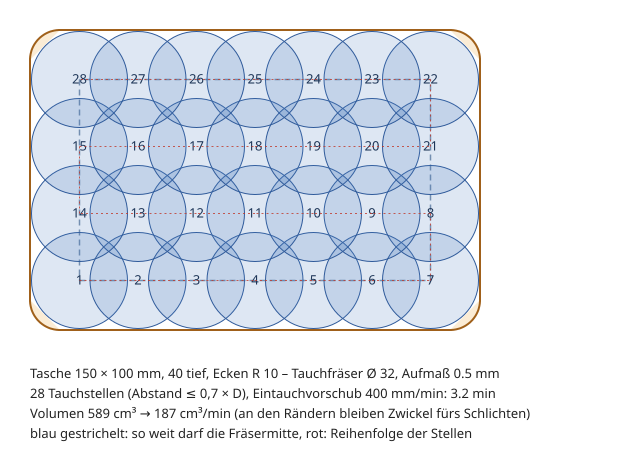
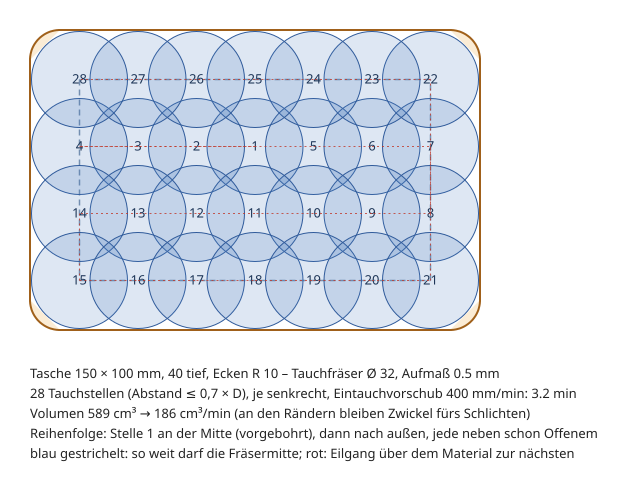
Tauchfräsen-Entwurf: Reihenfolge von der Mitte nach außen, senkrecht – kein Zickzack; Hilfe zu den Katalogen

diff --git a/help/en/werkzeuge.html b/help/en/werkzeuge.html
@@ -65,7 +65,13 @@ carbide end mills Ø 6 to 20 (Jongen UNI-Mill 494W, from the catalogue), deburri
 16 (Garant 208165, from the data sheet), a face mill Ø 50 (Sandvik CoroMill 345), one example
 of every other type and the inserts for turning (C, D, V, W, T, S, R). The window shows them
 as a tree: tool type → series → size, each with a tick – so you can take single sizes of a
-series only. At first nothing is ticked, so that nothing is added by accident; “Tick all” and
+series only. On top come the <b>manufacturers' catalogues</b> – over 12,800 sizes from Fraisa,
+Hufschmied, Gühring, MAPAL, Iscar, Kennametal, Tungaloy and Hoffmann (GARANT, HOLEX); the search
+above the tree finds manufacturer, brand and series, the sizes of a series appear when it is
+expanded. What a tool can do according to its manufacturer shows later in grey below its fields:
+<b>Can, per manufacturer:</b> centre cutting (plunges vertically), drill-milling, plunge
+milling, up to 5 × D deep, indexable inserts … – the assistant suggests tools from this. At
+first nothing is ticked, so that nothing is added by accident; “Tick all” and
 “Untick all” help. The tooltip of a series says where dimensions,
 numbers and values come from. <b>Add</b> creates them with the next free numbers – what is
 already there stays as you changed it. Every tool brings cutting data per <b>material

diff --git a/help/de/werkzeuge.html b/help/de/werkzeuge.html
@@ -67,7 +67,13 @@ VHM-Fräser Ø 6 bis 20 (Jongen UNI-Mill 494W, nach Katalog), Entgrater Ø 6 bis
 208165, nach Datenblatt), ein Messerkopf Ø 50 (Sandvik CoroMill 345), je weitere Art ein
 Beispiel und die Wendeplatten zum Drehen (C, D, V, W, T, S, R). Das Fenster zeigt sie als
 Baum: Werkzeugart → Reihe → Größe, jede mit Haken – so nimmst du auch nur einzelne Größen
-einer Reihe. Am Anfang ist nichts angehakt, damit nicht aus Versehen alles hinzukommt;
+einer Reihe. Dazu kommen die <b>Kataloge der Hersteller</b> – über 12 800 Größen von Fraisa,
+Hufschmied, Gühring, MAPAL, Iscar, Kennametal, Tungaloy und Hoffmann (GARANT, HOLEX); die Suche
+über dem Baum findet Hersteller, Marke und Reihe, die Größen einer Reihe erscheinen beim
+Aufklappen. Was ein Werkzeug laut Hersteller kann, steht später grau unter seinen Feldern:
+<b>Kann laut Hersteller:</b> mittenschneidend (taucht senkrecht ein), Bohrfräsen, Tauchfräsen,
+bis 5 × D tief, Wendeplatten … – daran schlägt der Assistent Werkzeuge vor. Am Anfang ist nichts
+angehakt, damit nicht aus Versehen alles hinzukommt;
 „Alle anhaken“ und „Alle abhaken“ helfen dabei. Der Tooltip einer Reihe sagt,
 woher Maße, Nummern und Werte kommen. <b>Hinzufügen</b> legt sie mit den nächsten freien
 Nummern an – was schon da ist, bleibt, wie du es geändert hast. Jedes Werkzeug bringt

diff --git a/camaddon/tauchfraesen.py b/camaddon/tauchfraesen.py
@@ -10,11 +10,14 @@ Der Fräser (ein Tauchfräser oder ein mittenschneidender Schaftfräser mit Wend
 senkrecht ins Volle, Stelle an Stelle:
 
 - **Wo:** Die Mitte des Fräsers bleibt um Radius + Aufmaß innerhalb des Bodens (makeOffset2D). Darin
-  liegen die Stellen in Zeilen (`schritt`, höchstens 0,7 × D – dann bleiben zwischen vier Stellen
-  nur kleine Zwickel), Zeile um Zeile im Zickzack, und dazu Stellen längs der versetzten Kontur im
-  selben Abstand, damit die Wände gleichmäßig Aufmaß behalten.
-- **Wie:** im Eilgang über die Stelle (knapp über der Oberkante), mit dem Eintauchvorschub bis auf
-  den Boden + Aufmaß, im Eilgang zurück nach oben, zur nächsten.
+  liegen die Stellen in einem Raster (`schritt`, höchstens 0,7 × D – dann bleiben zwischen vier
+  Stellen nur kleine Zwickel), dazu Stellen längs der versetzten Kontur im selben Abstand, damit
+  die Wände gleichmäßig Aufmaß behalten.
+- **Reihenfolge:** von der Mitte (dort wird vorgebohrt) nach außen, jede neue Stelle neben dem
+  schon Offenen (von_innen_nach_aussen).
+- **Wie:** im Eilgang über die Stelle (knapp über der Oberkante), senkrecht mit dem
+  Eintauchvorschub bis auf den Boden + Aufmaß, im Eilgang zurück nach oben, zur nächsten – kein
+  Zickzack, kein Rampen.
 
 Läuft ohne Oberfläche.
 """
@@ -45,13 +48,11 @@ def stellen(boden, radius, aufmass=0.0, schritt=None):
     zeilen = max(1, math.ceil(box.YLength / schritt))
     for zeile in range(zeilen + 1):
         y = box.YMin + min(zeile * box.YLength / zeilen, box.YLength)
-        reihe = []
         spalten = max(1, math.ceil(box.XLength / schritt))
         for spalte in range(spalten + 1):
             x = box.XMin + spalte * box.XLength / spalten
             if innen.isInside(FreeCAD.Vector(x, y, z), 1e-6, True):
-                reihe.append((x, y))
-        punkte += reihe if zeile % 2 == 0 else list(reversed(reihe))
+                punkte.append((x, y))
     # Längs der Kontur der versetzten Fläche, damit die Wände gleichmäßig Aufmaß behalten.
     for kante in innen.Edges:
         anzahl = max(1, math.ceil(kante.Length / schritt))
@@ -61,7 +62,35 @@ def stellen(boden, radius, aufmass=0.0, schritt=None):
             )
             if all(math.hypot(p.x - a, p.y - b) > 0.5 * schritt for a, b in punkte):
                 punkte.append((p.x, p.y))
-    return punkte
+    mitte = innen.CenterOfMass if innen.isInside(innen.CenterOfMass, 1e-6, True) else None
+    return von_innen_nach_aussen(punkte, (mitte.x, mitte.y) if mitte is not None else None)
+
+
+def von_innen_nach_aussen(punkte, mitte=None):
+    """Die Reihenfolge (Manuel, 2026-10-31: „bohrt mittig ein loch und fräst dann“; zum ersten
+    Entwurf: „wieso zuickzack bahn ?“): zuerst die Stelle an der Mitte (dort wird vorgebohrt),
+    dann immer die, die dem schon Offenen am nächsten liegt – so greift jede neue Stelle neben
+    Offenem an und schneidet nur zum Teil ins Volle; bei Gleichstand die nächste zur letzten."""
+    if not punkte:
+        return []
+    if mitte is None:
+        mitte = (sum(p[0] for p in punkte) / len(punkte), sum(p[1] for p in punkte) / len(punkte))
+    offen = list(punkte)
+    erste = min(offen, key=lambda p: math.hypot(p[0] - mitte[0], p[1] - mitte[1]))
+    folge = [erste]
+    offen.remove(erste)
+    while offen:
+        letzte = folge[-1]
+        naechste = min(
+            offen,
+            key=lambda p: (
+                round(min(math.hypot(p[0] - a, p[1] - b) for a, b in folge), 3),
+                math.hypot(p[0] - letzte[0], p[1] - letzte[1]),
+            ),
+        )
+        folge.append(naechste)
+        offen.remove(naechste)
+    return folge
 
 
 def bahn(punkte, z_oben, z_unten):

diff --git a/tests/test_tauchfraesen.py b/tests/test_tauchfraesen.py
@@ -5,6 +5,8 @@
 #    höchstens r von einer Stelle entfernt.
 # 3. Die Bahn: je Stelle Eilgang darüber, Eintauchen bis zum Boden, Eilgang hoch; die Zeit > 0.
 # 4. Zu eng (Tasche schmaler als der Fräser): keine Stelle.
+# 5. Reihenfolge von innen nach außen: die erste Stelle an der Mitte, jede weitere höchstens einen
+#    Rasterschritt (+ Spiel) vom schon Offenen.
 import math
 import os
 import sys
@@ -59,6 +61,14 @@ schmal = Part.Face(
 )
 if tf.stellen(schmal, r, aufmass):
     fehler.append("in einer zu engen Tasche Stellen")
+
+erste = stellen[0]
+if math.hypot(erste[0] - 75, erste[1] - 50) > 0.7 * 2 * r:
+    fehler.append(f"erste Stelle nicht an der Mitte: {erste}")
+for i in range(1, len(stellen)):
+    abstand = min(math.hypot(stellen[i][0] - a, stellen[i][1] - b) for a, b in stellen[:i])
+    if abstand > 0.7 * 2 * r * 1.05:
+        fehler.append(f"Stelle {i + 1} nicht neben dem Offenen: {abstand:.1f}")
 
 if fehler:
     raise AssertionError("\n".join(fehler))

diff --git a/docs/OFFENE_FRAGEN.md b/docs/OFFENE_FRAGEN.md
@@ -18,9 +18,11 @@ daraus folgt, stehen in [konzept_schritt_assistent.md](konzept_schritt_assistent
    zum Messen von Hand misst die Maschine nach jedem Schlichtgang (Taschenbreite, Wandlage) und
    korrigiert den nächsten Gang; ohne Taster bleibt es beim Messstopp. – 2026-10-31.
 2. **Tauchfräsen so – darf es als Weg ins Schruppen?** ([Bild](bilder/tauchfraesen_entwurf.png))
-   Tasche 150 × 100, 40 tief, Tauchfräser Ø 32, Aufmaß 0,5: 28 Tauchstellen in Zeilen (Abstand
-   höchstens 0,7 × D, Zickzack), je senkrecht mit Eintauchvorschub auf den Boden, Eilgang hoch,
-   zur nächsten – bei 400 mm/min 3,2 min, 187 cm³/min. An den Rändern bleiben Zwickel, die das
+   Tasche 150 × 100, 40 tief, Tauchfräser Ø 32, Aufmaß 0,5: 28 Tauchstellen (Abstand höchstens
+   0,7 × D), je **senkrecht** mit Eintauchvorschub auf den Boden, Eilgang hoch, über dem Material
+   zur nächsten – kein Zickzack, kein Rampen. Reihenfolge: Stelle 1 in der Mitte (dort vorgebohrt),
+   dann nach außen, jede neue Stelle neben schon Offenem (nach Manuels „wieso zickzack bahn ?“ zum
+   ersten Bild, das Zeile für Zeile aus der Ecke begann). Bei 400 mm/min 3,2 min, 186 cm³/min. An den Rändern bleiben Zwickel, die das
    Schlichten (oder Restschruppen) nimmt. Gebaut als Entwurf (`camaddon/tauchfraesen.py`), noch nicht
    im Assistenten. – *Warum nur Manuel:* eine neue Strategie (abgemacht: erst Bild, dann sein Ja) –
    und ob die Stellen so liegen sollen (Zeilen, versetzte Zeilen, oder längs der Wand zuerst). –
